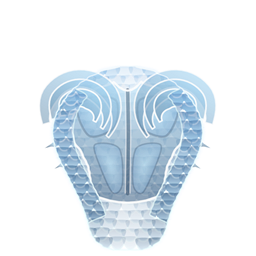
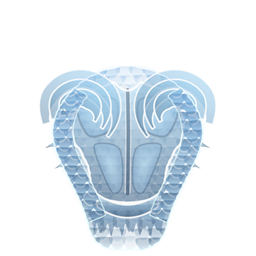
Call of Valor: a belt that curves round the body, a fur skirt, one buckle
The user's call: this is the new checkpoint, better than every version so far.
Tools/ValorApproved_2026-07-31/ moved onto it. Overwriting stays safe because
every earlier checkpoint is recoverable in full from git - 008e674 for
pauldrons+chest, 53472b3 for the abdominal half.

THE BELT, and the two faults the first version had - both the user's reporting
and both general:

  1. It took its width from the BODY, at a flat 0.825 of the silhouette, so it
     did not line up with the armour it is strapped over. The extents now come
     from the CUIRASS's own edge, per side independently, so the belt ends
     exactly where the abdominal plate ends.
  2. It was a straight band with a sag, and A SAG IS NOT CURVATURE. A belt goes
     ROUND a roughly cylindrical waist, so from the front it is an ellipse, and
     the part you can see is its NEAR half - the LOWER arc. The middle of the
     band therefore sits below its two ends, with both edges dropping together
     so the width stays constant.

That forced a structural change: the belt is built across X rather than down Y.
The vertical offset is a function of HORIZONTAL position, which the old
row-by-row loop could not express at all. Side-on almost none of the curvature
projects, so east uses 0.35 of the bow - the front's value bends it like a
banana. Anything sitting on the band has to be offset by the bow at its own x
or it floats above its own belt, which is what happened to the clasp.
[…]

Changed region(s): [[0.3438, 0.75, 0.6562, 0.9375]]

diff --git a/Mods/Dovahkiin/CHANGELOG.md b/Mods/Dovahkiin/CHANGELOG.md
@@ -1,5 +1,81 @@
 # CHANGELOG
 
+## Call of Valor: a curving belt and a fur skirt below the abdomen (2026-07-31)
+
+The third piece, below the abdomen. Drawn **in the order the layers are worn** — fur first, hanging
+from under the belt, then the belt over its top edge — because each has to lap the one above, and
+in any other order the seams show. Each band also **overlaps the one above by a few thousandths**:
+butted edge to edge they leave a hairline of bare pawn between them on some body types and not
+others, which reads as a gap in the armour rather than as layers.
+
+### The belt, and the two things the first version got wrong
+
+Both reported by the user, both worth keeping because they are general:
+
+1. **It took its width from the BODY**, at a flat 0.825 of the silhouette, so it did not line up
+   with the armour it is strapped over. The extents now come from the **cuirass's own edge** —
+   `PlateEdge` at the plate's lower rim, per side independently — so the belt ends exactly where
+   the abdominal plate ends.
+2. **It was a straight band with a sag, and a sag is not curvature.** A belt goes *round* a
+   roughly cylindrical waist, so from the front it is an **ellipse**, and the near part of an
+   ellipse is its **lower arc**: the middle of the visible band sits below its two ends, and both
+   edges drop together so the band keeps a constant width. That is what makes it read as passing
+   behind the body instead of as a painted stripe. It is now built **across X rather than down Y**
+   for exactly that reason — the vertical offset is a function of horizontal position, which the
+   old row-by-row loop could not express at all.
+
+Side-on the belt is seen along the ellipse's major axis, so almost none of that curvature projects;
+east uses 0.35 of the bow. Applying the front's value there bends it like a banana.
+
+The **clasp** is one broad boss, roughly 17×8px, sized off the belt's own half-width and dropped by
+the full bow so it sits at the lowest point of the curve — at the band's flat mid-height it floated
+above its own belt. Buckle teeth and a prong are the 2–4px features that cannot be drawn here; one
+clear shape at the centre says "belt" far better than hardware that resolves to mush.
+
+**And it was drawn on the BACK as well.** Caught by the user on the north preview: *"belts only
+have one buckle, not two."* The test was `$rot -ne "east"`, which passes for north. The pawn wore a
+buckle front and rear.
+
+*The general trap, and this file is full of per-rotation code so it is worth naming:* **a feature
+that is not symmetric front-to-back needs an explicit `south` test, not an "everything except the
+side view" test.** North is a different view of the same object, not a mirror of the front — which
+is exactly the reasoning that already gives north shoulder blades instead of pectorals, a spine
+instead of a sternum, and erector spinae instead of abs. The clasp was simply missed when those
+were done, and an `-ne` test is what let it slip through: it opts a rotation *in* by default.
+
+### The thigh plates are OFF, at the user's request
+
+*"Delete the upper thighs part for now."* The word is **for now**, so `DrawTasset` is kept intact
+behind `$DRAW_TASSETS = $false` rather than deleted — its two-lame construction and its centre-gap
+fractions took a round to get right and would otherwise have to be re-derived. Same treatment
+`GenerateValorArmour.ps1` got when the normal-plate route was dropped.
+
+### The fur, stated honestly — because this project has been here before
+
+Fur **strands** are 2–4px at this scale and cannot be drawn. That was true when the normal-plate
+armour failed on exactly this, and it is still true. What can be drawn is fur at **silhouette
+level**, and the difference is where the information lives:
+
+- a **ragged, tufted lower edge** instead of a clean one — the outline carries it. The tuft profile
+  is two sine waves at incommensurate frequencies, **deterministic, not random**: randomness would
+  change the art silently on every regeneration and make a hash check against the approved snapshot
+  worthless.
+- **matte shading**, and deliberately **darker in value** than the plate either side of it.
+- and **no hot rim**. Every other piece of this armour gets a bright specular edge; the fur does
+  not, and that *absent* highlight is what says "this is not metal" more than any texture inside
+  the shape could.
+
+Read it as a fur-shaped mass, not as strands. That is the honest ceiling at ~102px per pawn.
+
+**One layering bug, found on the first render:** the fur was drawn and then almost entirely covered
+by the thigh plates, so it might as well not have existed. The fur's hem now hangs **lower than the
+plates begin** (0.888 against 0.830), so it shows in two places — a band above the plates, and down
+the gap between them.
+
+Dragon Aspect untouched — 36 of 36 byte-identical.
+
+---
+
 ## Call of Valor: the ABDOMINAL half of the cuirass (2026-07-31)
 
 The second half of the chest plate. The cuirass now runs from the throat to the bottom of the

diff --git a/Mods/Dovahkiin/Tools/ValorApproved_2026-07-31/README.md b/Mods/Dovahkiin/Tools/ValorApproved_2026-07-31/README.md
@@ -3,12 +3,16 @@
 **The user's words: "this one right here is the best of every version we had until now."**
 Frozen here so that later changes cannot lose it.
 
-> **CHECKPOINT MOVED.** This folder was first taken at the pauldrons-and-chest stage and has
-> since been **overwritten at the user's instruction** to become the checkpoint *including the
-> abdominal half*. Overwriting is safe rather than destructive: **the earlier checkpoint is
-> still recoverable in full from git at commit `008e674`**, contents and manifest alike. That
-> is the reason a snapshot may be overwritten at all — the history is the real archive, this
-> folder is the convenient one.
+> **CHECKPOINT MOVED — TWICE.** This folder is overwritten each time the user calls a new build
+> the best so far. Overwriting is safe rather than destructive: **every earlier checkpoint stays
+> recoverable in full from git**, contents and manifest alike. The history is the real archive;
+> this folder is only the convenient copy.
+>
+> | held here | commit |
+> |---|---|
+> | pauldrons + chest | `008e674` |
+> | + the abdominal half | `53472b3` |
+> | **+ belt, fur, curved belt, no thigh plates** | **current** |
 
 This folder is a **snapshot, not a source**. Nothing in the mod loads it — `Tools/` is not
 scanned for textures. It exists so that any future version of the champion can be compared
@@ -35,6 +39,11 @@ against the one that was actually approved, byte for byte, instead of from memor
 - The **abdominal half**: three rows of segments, each narrower than the one above and sweeping
   up at its outer end; the sternum groove extended into one continuous linea alba; an iliac line
   per side. North gets one erector-spinae mass per side rather than rows.
+- A **belt that curves round the body** — its width taken from the cuirass's own edge, its centre
+  dropping below its ends like the near arc of an ellipse. **One buckle, on the front only.**
+- A **fur skirt** below it: tufted hem, matte, and deliberately no specular rim.
+- **No thigh plates.** Built, then switched off at the user's request — `$DRAW_TASSETS = $false`.
+  `DrawTasset` is intact and must not be deleted; the word was "for now".
 - **No crest shards.** Suppressed deliberately: they run down the same chest the cuirass occupies
   and win outright, so the pectorals stopped existing. There is no alpha at which both read.
 
